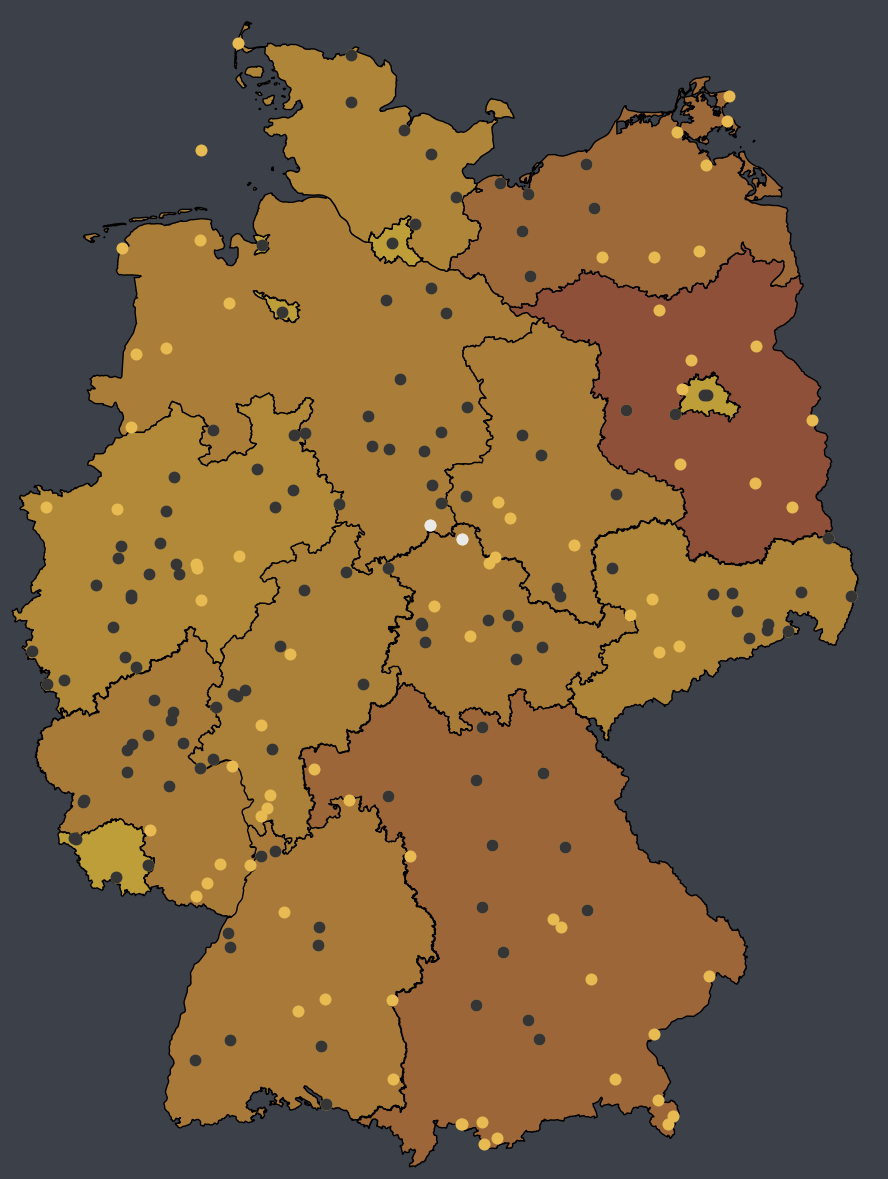
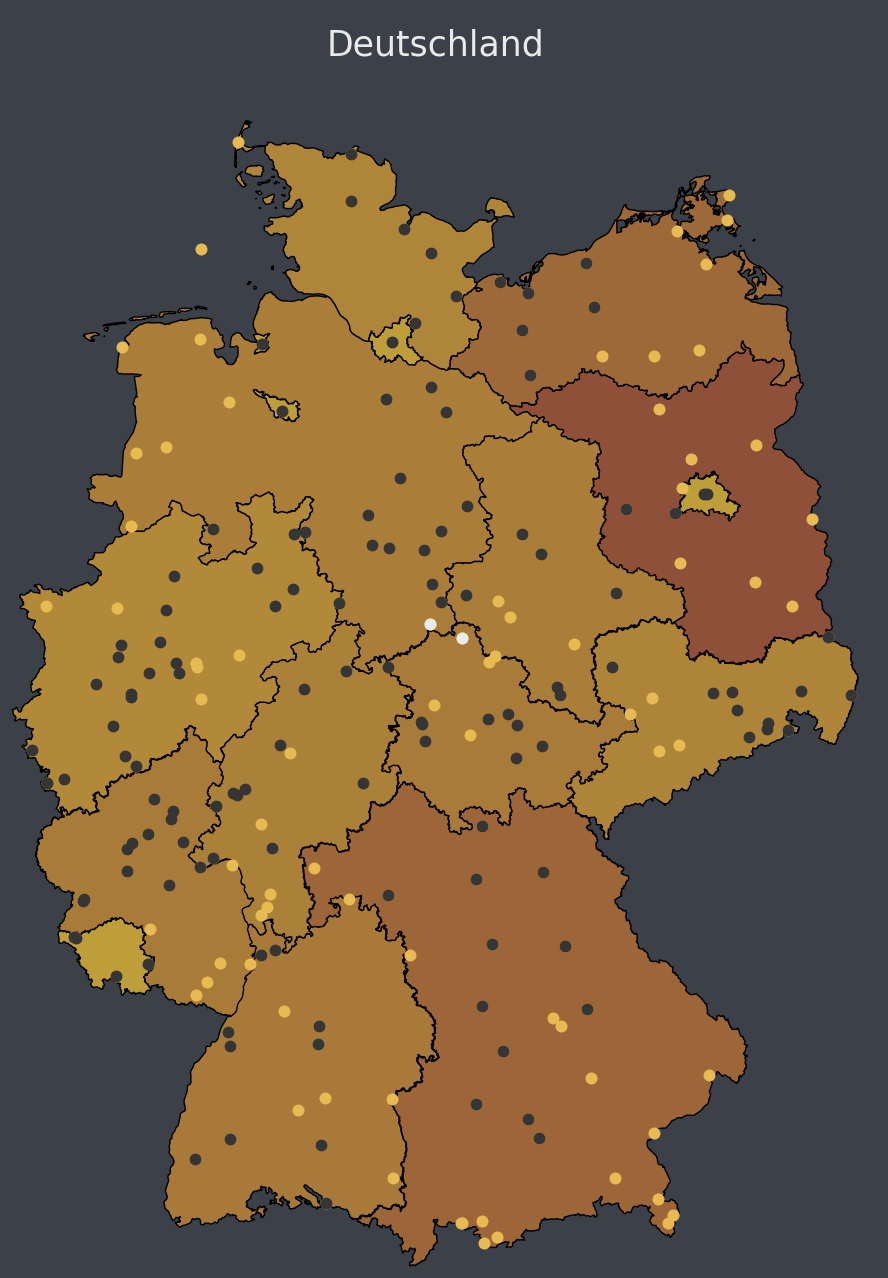
update small germany map

diff --git a/main.py b/main.py
@@ -13,7 +13,7 @@ from colormap import custom_cmap
 
 
 # Set global variables, directories for map creation and site locations
-SCALE = 5
+SCALE = 1
 
 # US National Park Global Variables
 #PATH = "us"
